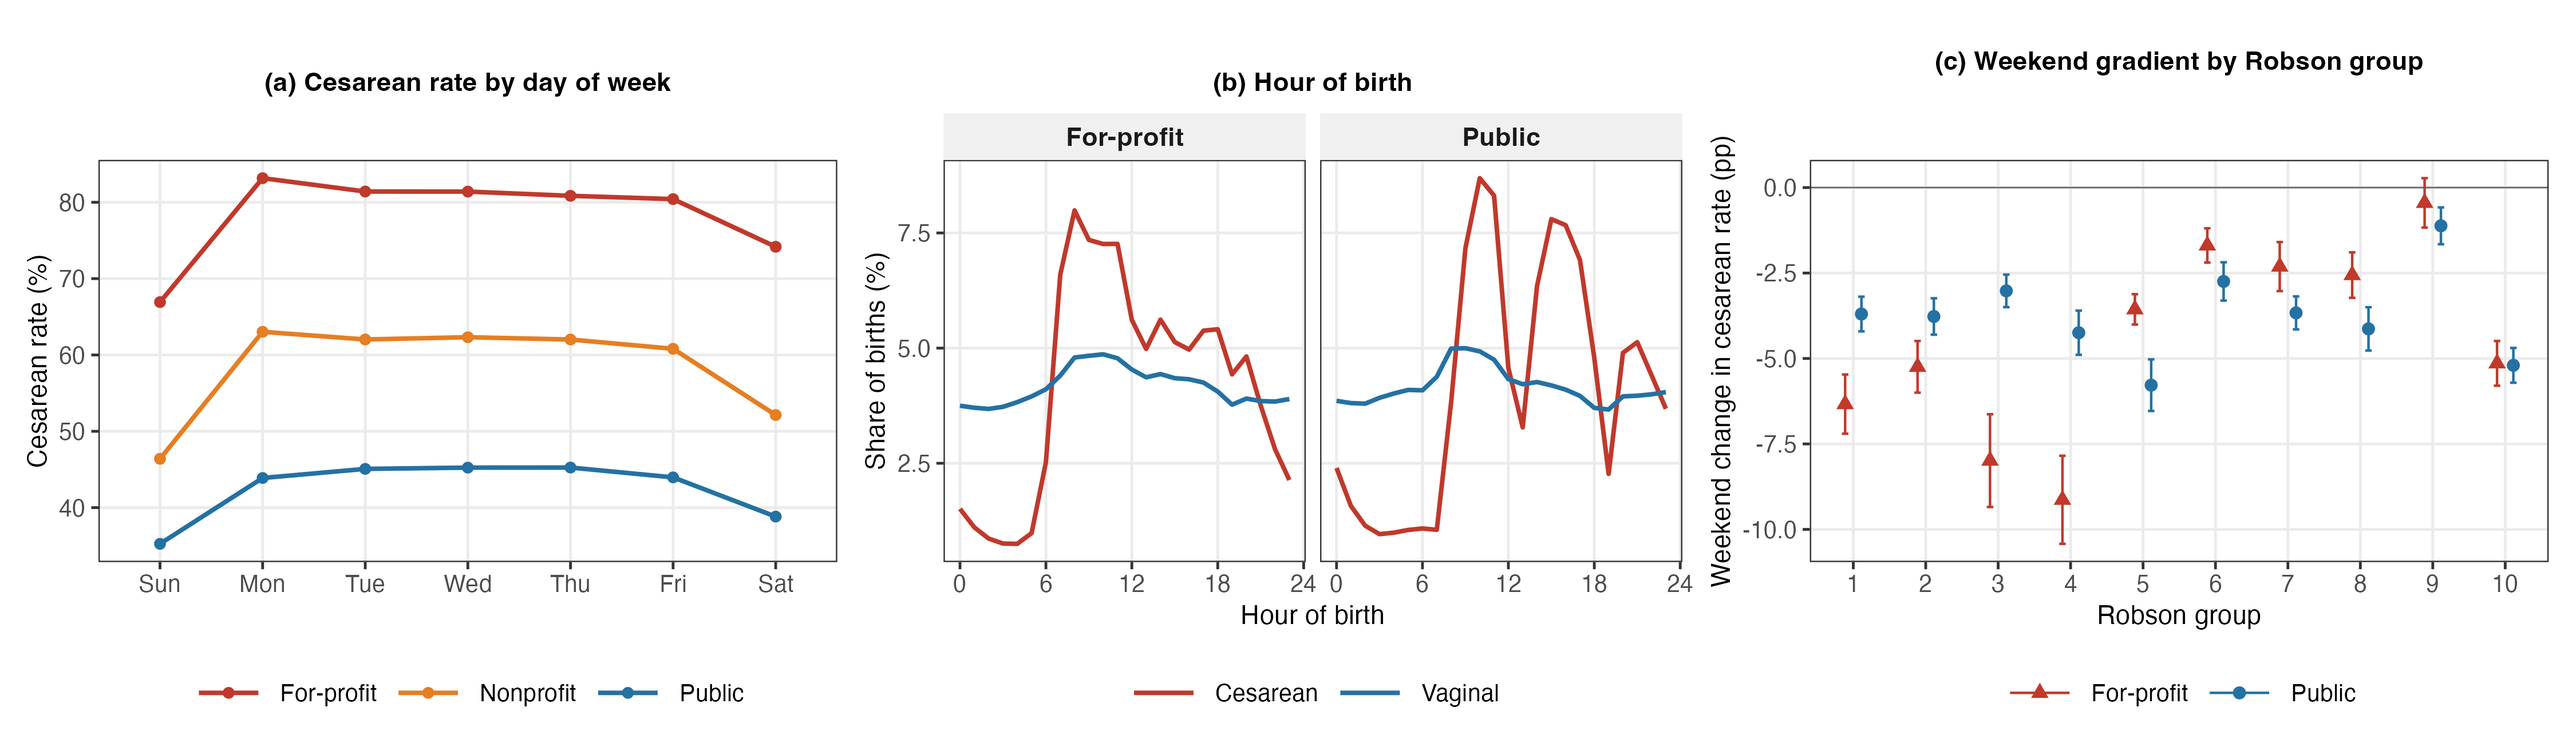
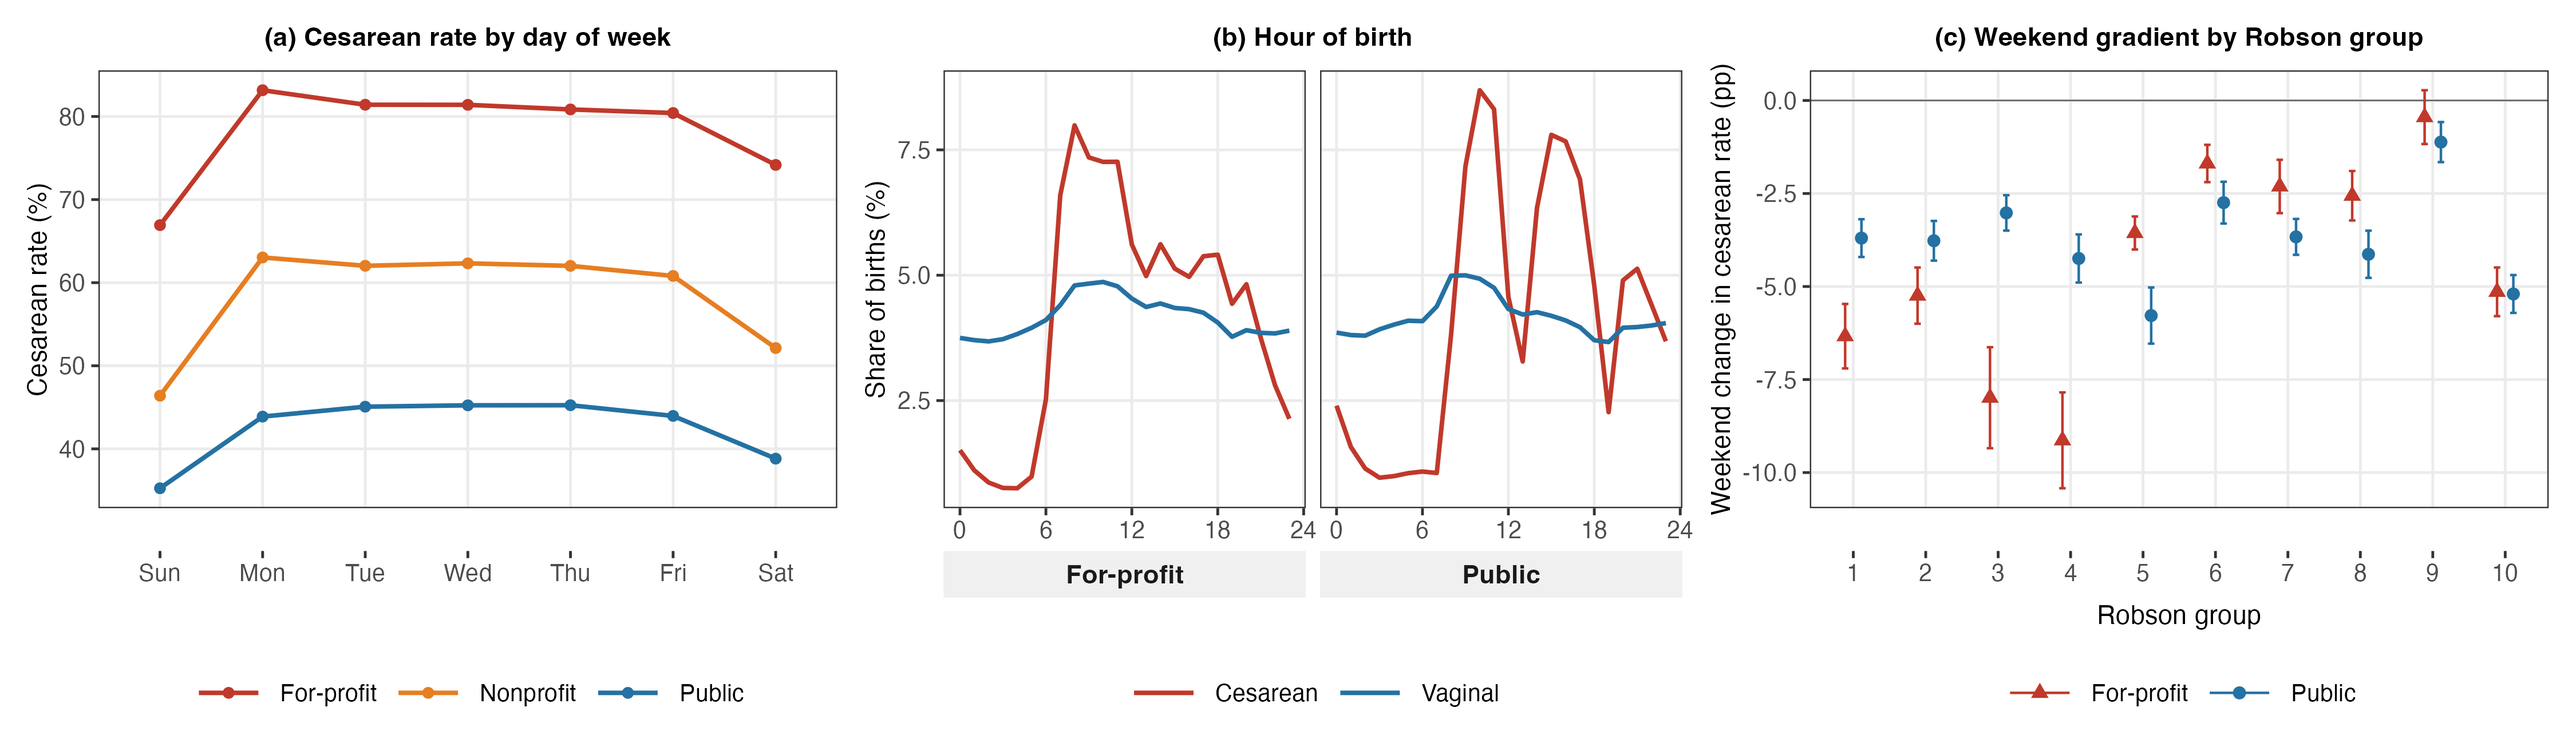
Minor fix

diff --git a/latex/paper.tex b/latex/paper.tex
@@ -1181,10 +1181,14 @@ source data, and take full responsibility for the content of the published
 article.
 
 % =============================================================================
-% Essential appendices (A model, B data) precede the references, per AEA layout.
-% The Supplementary Appendix (additional results and robustness) is a separate
-% document, latex/supplement.tex, submitted as online supplementary material.
+% References come before the appendices, per the Elsevier/JHE layout. The
+% essential appendices (A model, B data) follow; the Supplementary Appendix
+% (additional results and robustness) is a separate document,
+% latex/supplement.tex, submitted as online supplementary material.
 % =============================================================================
+\bibliographystyle{plainnat-rev}
+\bibliography{refs}
+
 \appendix
 % Number appendix tables/figures by their appendix section (A.1, B.1 ...),
 % so a cross-reference makes clear which appendix an exhibit lives in.
@@ -1192,8 +1196,5 @@ article.
 \numberwithin{figure}{section}
 
 \input{appendix}       % Appendix A (model) + Appendix B (data & variables)
-
-\bibliographystyle{plainnat-rev}
-\bibliography{refs}
 
 \end{document}

diff --git a/CLAUDE.md b/CLAUDE.md
@@ -386,8 +386,9 @@ pdflatex supplement
 ```
 Verify with `grep -c "Reference .* undefined" paper.log` → must be 0.
 Supplement needs its OWN bibtex pass (cites holm1979 + benjamini1995 in App D).
-`paper.tex` \inputs `appendix.tex` (A model + B data) before the bibliography;
-the Supplemental Appendix is a separate document.
+`paper.tex` puts the bibliography FIRST and \inputs `appendix.tex` (A model +
+B data) after it, per the Elsevier/JHE layout (changed 2026-07-24); the
+Supplemental Appendix is a separate document.
 
 ## Conventions
 
